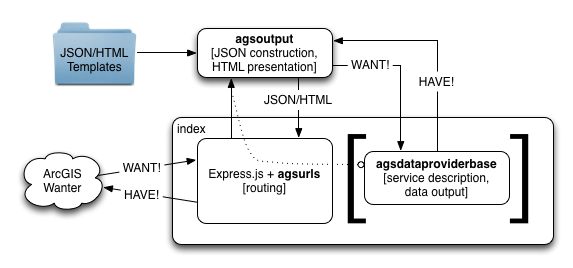
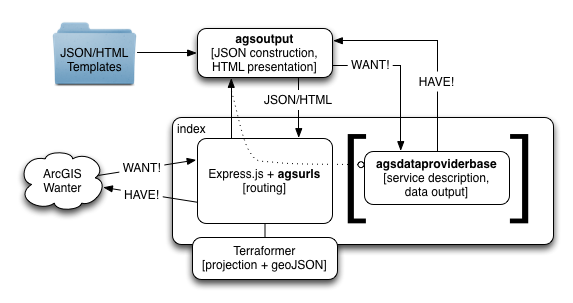
Update the README to cover the geoJSON functionality and talk about the new GeoHub sample data provider.

Changed region(s): [[0.0297, 0.0597, 0.9791, 0.9552], [0.712, 0.2388, 0.801, 0.3284]]

diff --git a/samples/geohub/geohubprovider.js b/samples/geohub/geohubprovider.js
@@ -128,7 +128,8 @@ Object.defineProperties(GeoHubProvider.prototype, {
 					"<li>(optional) f: Setting this to <em>geojson</em> returns the GeoHub output unprocessed as geoJSON.</li>" +
 					"</ul>";
 			} else if (layerId == 1) {
-				detailsTemplate.description += "<ul><li>gistId: The unique ID of the Gist</li>" +
+				detailsTemplate.description += "<ul>" +
+					"<li>gistId: The unique ID of the Gist</li>" +
 					"<li>(optional) gistFileIndex: If the gist has multiple .geojson files, specify which one should be returned (zero-based index, default value 0)." +
 					"<li>(optional) geoJSONType: The geoJSON Geometry Type to extract (since a FeatureLayer may emit a featureset with a single geometry type)." +
 					"If this is omitted, the first geoJSON Geometry will define the type used to filter on.</li>" +

diff --git a/README.md b/README.md
@@ -1,5 +1,5 @@
-node-ags-adaptor
-================
+node-geoservices-adaptor
+========================
 
 This is a [node.js](http://nodejs.org) implementation of part of the [Esri GeoServices REST API](http://resources.arcgis.com/en/help/arcgis-rest-api/).
 
@@ -25,16 +25,36 @@ At a glance, this is how it works:
 
 * **agsurls**: Construct Adaptor and Template REST Endpoints.
 * **agsoutput**: Construct JSON output. Format HTML output for JSON.
-* **agsdataproviderbase**: Describe the service (fields, idField, nameField, etc.) and return features when requested.
+* **agsdataproviderbase**: Describe the service (fields, idField, nameField, etc.) and return features when requested. Inherit from this and selectively override to add a provider.
 
-##Sample Data Provider
-The sample data provider makes use of the [awesome API](http://api.citybik.es) at [CityBik.es](http://citybik.es) providing bike share data (almost) globally. This sample Data Provider adapts the data into Geoservices format output. The root REST endpoint 
-for the CityBikes data provider can be found live here (this is where you might point ArcCatalog): http://node-geoservices-adaptor.aws.af.cm/citybikes/rest/services
+Making use of the [Terraformer](https://github.com/esri/terraformer) library, the application is able to support outputting in [geoJSON](http://www.geojson.org/geojson-spec.html) by specifying `f=geojson`.
+
+## Requirements
+* [node.js](http://nodejs.org)
 
 ##Installation
 1. Clone the repo and run `npm update` in the repo folder
 2. Run the node server with `node index`
 3. Browse to [http://localhost:1337](http://localhost:1337)
+
+##Sample Data Providers
+###Citybikes
+The Citybikes sample data provider makes use of the [awesome API](http://api.citybik.es) at [CityBik.es](http://citybik.es) providing bike share data (almost) globally. This sample Data Provider adapts the data into Geoservices format output. The root REST endpoint 
+for the CityBikes data provider can be found live here (this is where you might point ArcCatalog): http://node-geoservices-adaptor.aws.af.cm/citybikes/rest/services
+###GeoHub
+Making use of the [GeoHub repo](https://github.com/chelm/geohub), this sample provider allows a client to request geoJSON files from either a GitHub repository ([example](https://github.com/chelm/grunt-geo/blob/master/forks.geojson)) or from a GitHub gist ([example](https://gist.github.com/chelm/6178185)). The following additional query parameters are implemented:
+
+* repo
+	* **githubUser**: The repo owner's username.
+	* **repoName**: The name of the repo containing the GeoJSON file.
+	* **filePath**: The path to the GeoJSON file within the repo. Note, you should not include the ".geojson" file extension.
+	* **geoJSONType** (optional): The geoJSON Geometry Type to extract (since an ArcGIS FeatureLayer may only emit a featureset with a single geometry type). If this is omitted, the first geoJSON Geometry will define the type used to filter on.
+	* **f** (optional): Setting this to `geojson` returns the contents of the geoJSON file unprocessed.
+* gist
+	* **gistId**: The unique ID of the Gist
+	* **gistFileIndex** (optional): If the gist has multiple .geojson files, specify which one should be returned (zero-based index, default value 0).
+	* **geoJSONType** (optional): The geoJSON Geometry Type to extract (since an ArcGIS FeatureLayer may only emit a featureset with a single geometry type). If this is omitted, the first geoJSON Geometry will define the type used to filter on.
+	* **f** (optional): Setting this to `geojson` returns the contents of the geoJSON file unprocessed.
 
 ##Known Limitations
 * Only a limited subset of the [Geoservices REST Specification](http://resources.arcgis.com/en/help/arcgis-rest-api/) is implemented.
@@ -44,7 +64,8 @@ for the CityBikes data provider can be found live here (this is where you might 
 	* `Layers (Feature Service)`
 	* [`Layer (Feature Service)`](http://resources.arcgis.com/en/help/arcgis-rest-api/#/Layer/02r3000000w6000000/)
 	* [`Query (Feature Service\Layer)`](http://resources.arcgis.com/en/help/arcgis-rest-api/#/Query_Feature_Service_Layer/02r3000000r1000000/)
-* Only spatial references 4326 and 102100 are supported
+* Only spatial references 4326 and 102100 are supported.
+* The application will convert from 4326 to 102100 only.
 * Queries only work against the layer end point. `Query (Feature Service)` is declared as a capability but not yet implemented.
 * HTML Browsing is not available for Query endpoints. All queries return JSON.
 * Only a subset of [`Query (Feature Service\Layer)`](http://resources.arcgis.com/en/help/arcgis-rest-api/#/Query_Feature_Service_Layer/02r3000000r1000000/) is implemented:
@@ -52,18 +73,18 @@ for the CityBikes data provider can be found live here (this is where you might 
 	* `outSR` (4326 and 102100 only)
 	* `returnIdsOnly`
 	* `returnCountOnly`
-
-## Requirements
-
-* [node.js](http://nodejs.org)
+* Authentication and tokenization is not implemented. All services are considered public.
 
 ## Resources
 
-* [Geoservices REST Specification](http://resources.arcgis.com/en/help/arcgis-rest-api/)
+* [Esri Geoservices REST Specification](http://resources.arcgis.com/en/help/arcgis-rest-api/)
+* [Terraformer](https://github.com/esri/terraformer) by [Esri](http://esri.github.io)
 * [node.js documentation](http://nodejs.org/api/)
 * [express.js documentation](http://expressjs.com/api.html)
 * [CityBikes API](http://api.citybik.es)
+* [GeoHub](https://github.com/chelm/geohub)
 * [AppFog](http://appfog.com)
+* [geoJSON Specification](http://www.geojson.org/geojson-spec.html)
 
 ## Issues
 
